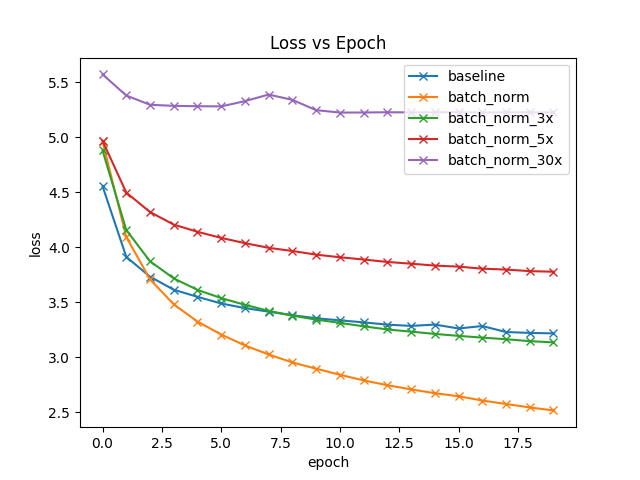
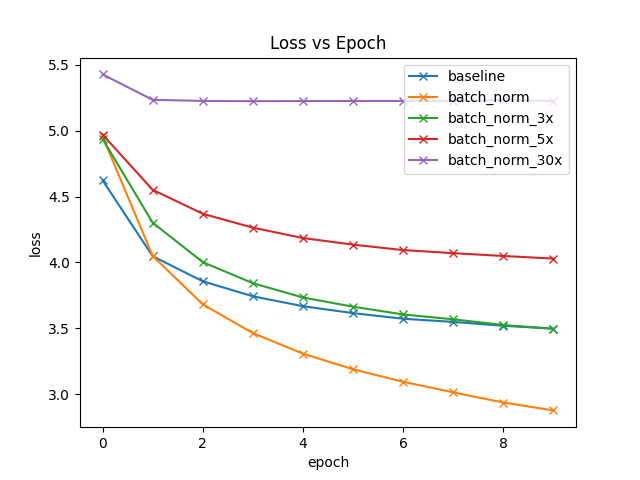
reran tiny for batch norm

diff --git a/batch_normalization.py b/batch_normalization.py
@@ -19,7 +19,7 @@ class MyNormLayer(nn.Module):
 
 
 if __name__ == "__main__":
-    for dataset, num_classes in (('STL10', 100), ('TINY', 200)):
+    for dataset, num_classes in (('TINY', 200),):
         # Experiments to reproduce from batch norm paper
         experiments = {
             'baseline': {'mod': MyNormLayer, 'lr': 0.001},
@@ -47,7 +47,7 @@ if __name__ == "__main__":
 
             # can use below for quick test
             # train_metrics = train(net, optimizer, list(train_dataloader)[:1], epochs=2)
-            train_metrics = train(net, optimizer, train_dataloader, epochs=20)
+            train_metrics = train(net, optimizer, train_dataloader, epochs=10)
 
             save_path = f'{dataset}_{exp_name}_train_metrics'
             save_stats(train_metrics, save_path)
@@ -93,6 +93,6 @@ if __name__ == "__main__":
         save_stats(test_acc, f'{dataset}_test_acc')
 
 """
-{"TINY_baseline": 0.53, "TINY_batch_norm": 0.57, "TINY_batch_norm_3x": 1.08, "TINY_batch_norm_5x": 0.95, "TINY_batch_norm_30x": 10.59}
+{"TINY_baseline": 20.13, "TINY_batch_norm": 31.89, "TINY_batch_norm_3x": 23.38, "TINY_batch_norm_5x": 14.5, "TINY_batch_norm_30x": 0.82}
 {"STL10_baseline": 59.975, "STL10_batch_norm": 62.175, "STL10_batch_norm_3x": 56.8875, "STL10_batch_norm_5x": 60.1, "STL10_batch_norm_30x": 40.5875}
 """
